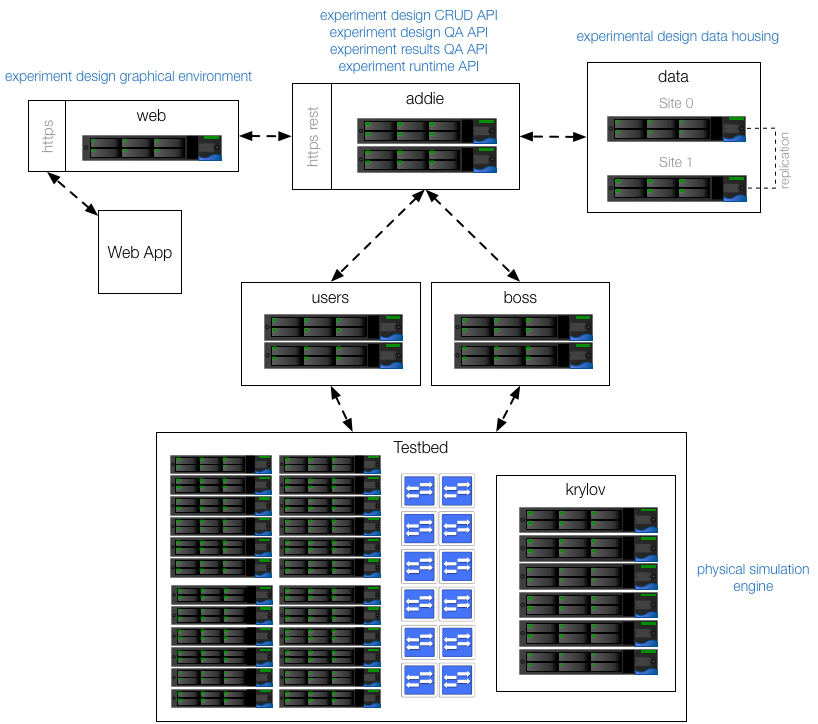
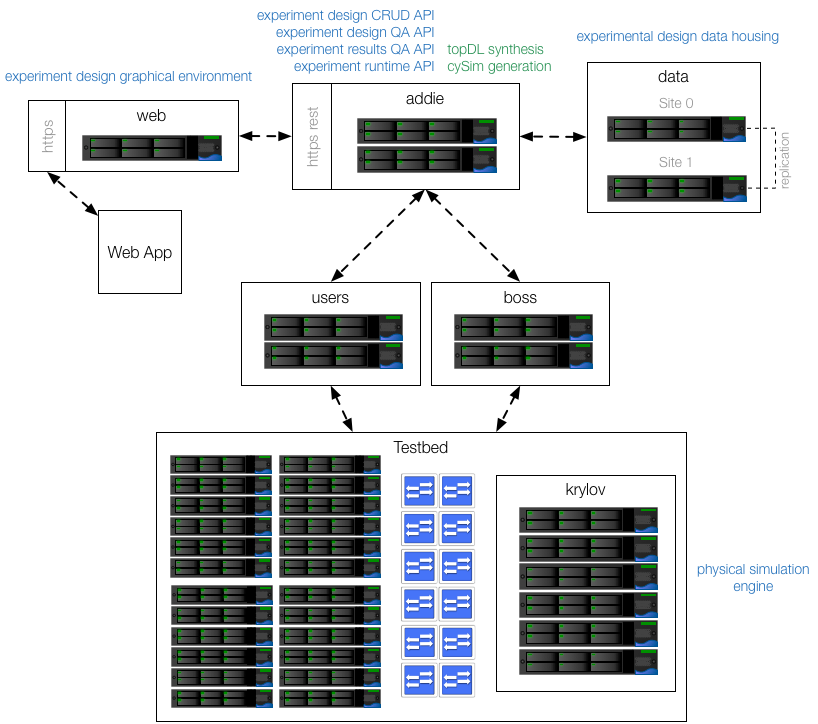
reticulating arch

Changed region(s): [[0.3056, 0.0, 0.6724, 0.1215]]

diff --git a/arch/index.html b/arch/index.html
@@ -64,6 +64,27 @@
         
             <ul>
             
+                <li class="toctree-l3"><a href="#web">Web</a></li>
+                
+            
+                <li class="toctree-l3"><a href="#addie">Addie</a></li>
+                
+            
+                <li class="toctree-l3"><a href="#data">Data</a></li>
+                
+            
+                <li class="toctree-l3"><a href="#deterlab">DeterLab</a></li>
+                
+                    <li><a class="toctree-l4" href="#users">Users</a></li>
+                
+                    <li><a class="toctree-l4" href="#boss">Boss</a></li>
+                
+                    <li><a class="toctree-l4" href="#testbed">Testbed</a></li>
+                
+            
+                <li class="toctree-l3"><a href="#krylov">Krylov</a></li>
+                
+            
             </ul>
         
     </li>
@@ -136,7 +157,27 @@
           <div role="main">
             <div class="section">
               
-                <p><img alt="CypArchWeb" src="../img/CypArchWeb.png" /></p>
+                <p>The cypress architecture provides three broad categories of capabilities to ICPS experiment designers; design, execution and analysis. The implementation of these capabilities comes together as a distributed server system that is depicted in the diagram below. In the sections that follow, the function of each component is described and how it participates with others. The internal design of these components is discussed in detail in later sections dedicated to that purpose.</p>
+<p><img alt="CypArchWeb" src="../img/CypArchWeb.png" /></p>
+<h1 id="web">Web</h1>
+<p>The <code>web</code> server serves the Cypress design web application as well as proxies https-rest API calls to <code>addie</code>. The proxy part is important as this is the only publicly addressed machine (for Cypress) in the whole architecture, and it is also necessary for the web application to access the services provided by <code>addie</code> without going cross-domain. This also provides a single uniform access scheme for third party tools, for the reference implementation of cypress at <a href="http://www.isi.edu">ISI</a>, this machine will be <code>cypress.deterlab.net</code>.</p>
+<h1 id="addie">Addie</h1>
+<p><code>addie</code> stands for <strong><em>automated design deployment interaction and execution</em></strong>. <code>addie</code> is the core component of the Cypress architecture. As can been seen from the annotations, there are quite a few services that fall under the purview of <code>addie</code>. The services listed in blue comprise the Cypress API. At this time the only user of this API is the design web-application, however the APIs have been designed for multi tool/front-end usage.</p>
+<p><code>addie</code> is also home to the logic for interacting with the DeterLab network testbed environment. These responsibilities include translation of the cyber portions of Cypress data models into DeterLab TopDL models, coordinating the deployment and execution of control software and simulation programs with the DeterLab swap-in process, providing the design web-application with access to runtime experiment objects, and the execution of experiment timelines.</p>
+<p>Finally, <code>addie</code> is also responsible for generating Cypress physics simulation programs. Cypress generates multiple-program-multiple-data (MPMD) distributed simulation code for each experiment based on the physical network model. When an API call comes in to execute an experiment, <code>addie</code> extracts a raw system of differential-algebraic equations (DAE) from the physical network model, creates a pseudo-optimal clustering of equations and variables from the DAE system and generates the MPMD programs based on this clustering. The execution of these programs is then orchestrated as a part of <code>addie</code>'s interaction with the DeterLab swap-in procedure.</p>
+<p>All of the data held in <code>addie</code> services is soft state, anything that is persistent is stored in <code>data</code> using a remote SQL API from <code>addie</code>. This was a design choice to allow for both good performance of <code>addie</code> services by having in-memory representations of experiment components that are actively being worked on, but also for providing a bit of fault tolerance by allowing services to restart from known good state in the <code>data</code>. In the cloud sense, <code>addie</code> would be considered the tier-1 services.</p>
+<h1 id="data">Data</h1>
+<p>The <code>data</code> servers hold Cypress' persistent data. The storage mechanism is simply a PostgreSQL database. The data servers are actually <code>data0</code> and <code>data1</code> where <code>data</code> resolves to <code>data0</code> under normal operating conditions. The servers are located at physically different sites and use PostgreSQL's master-to-master replication over SSH for replication.</p>
+<h1 id="deterlab">DeterLab</h1>
+<p>DeterLab is home to the emulated cyber network environment. Everything in <code>testbed</code> is under the control of DeterLab.</p>
+<h2 id="users">Users</h2>
+<p><code>users</code> is where user data is housed that can be accessed both from the outside world and from active experiments running on DeterLab. This is the place where Cypress designers place control code and custom deployment scripts for launching that code.</p>
+<h2 id="boss">Boss</h2>
+<p><code>boss</code> orchestrates the execution of the DeterLab testbed. On receipt of a network environment description, <code>boss</code> is ultimately responsible for creating the representative network environment. It does this by allocating computers and network resources within the testbed, creating VLANs for isolation and connectivity and setting up the computers operating systems to integrate with the DeterLab runtime environment for things like <code>users</code> access and reporting back to <code>boss</code> with things like node readiness and lifecycle information.</p>
+<h2 id="testbed">Testbed</h2>
+<p>The <code>testbed</code> is a collection of computers and networking equipment that is configured by DeterLab in response to experiment swap-ins and swap-outs. For cypress there are a set of nodes (computers) within the <code>testbed</code> that are especially reserved for simulation, this is called the <code>krylov</code> cluster.</p>
+<h1 id="krylov">Krylov</h1>
+<p>The <code>krylov</code> cluster is a set of nodes specifically designed and configured for running physics simulations. These nodes have specially configured operating systems, high-performance hardware and compilers and network interconnects. The allocation and management of these nodes is a coordinated between <code>addie</code> and <code>boss</code></p>
               
             </div>
           </div>

diff --git a/index.html b/index.html
@@ -207,5 +207,5 @@
 
 <!--
 MkDocs version : 0.14.0
-Build Date UTC : 2015-07-20 11:48:30.442287
+Build Date UTC : 2015-07-20 17:41:15.297649
 -->
